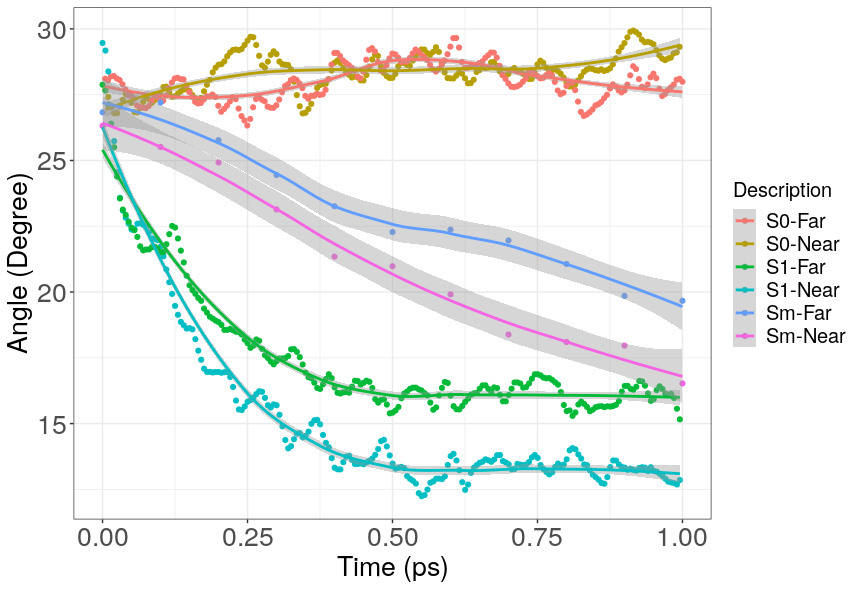
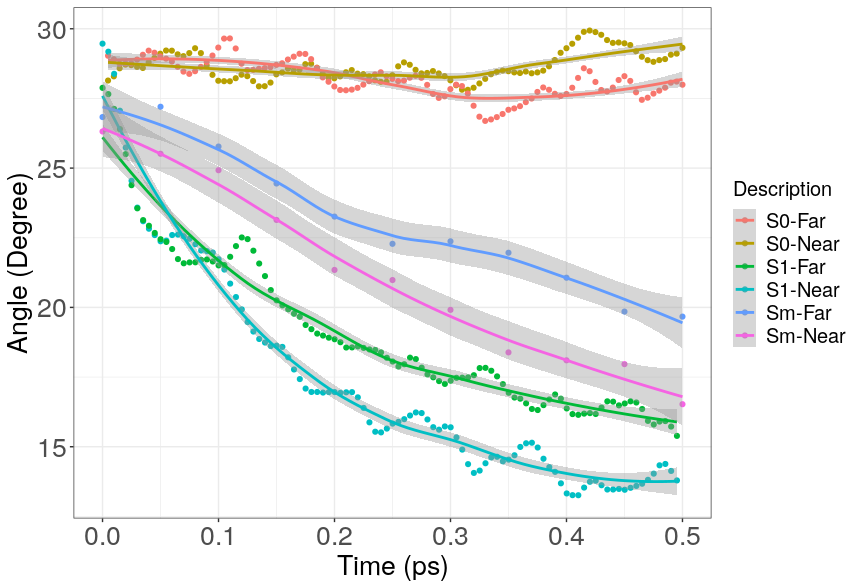
fixed x axist for dihedral

diff --git a/Paper2/figure_desc.html b/Paper2/figure_desc.html
@@ -3,7 +3,7 @@
 "http://www.w3.org/TR/xhtml1/DTD/xhtml1-strict.dtd">
 <html xmlns="http://www.w3.org/1999/xhtml" lang="en" xml:lang="en">
 <head>
-<!-- 2020-05-14 Thu 13:20 -->
+<!-- 2020-05-14 Thu 13:48 -->
 <meta http-equiv="Content-Type" content="text/html;charset=utf-8" />
 <meta name="viewport" content="width=device-width, initial-scale=1" />
 <title>Paper 2 Figure Description</title>
@@ -275,65 +275,65 @@ for the JavaScript code in this tag.
 <h2>Table of Contents</h2>
 <div id="text-table-of-contents">
 <ul>
-<li><a href="#org4a4528b">Populations </a>
+<li><a href="#org3c56d36">Populations </a>
 <ul>
-<li><a href="#org1031433">Vacuum</a>
+<li><a href="#org586f35a">Vacuum</a>
 <ul>
-<li><a href="#org21b9d76">PPV<sub>3</sub>-No-Trivial</a></li>
-<li><a href="#org4a9a792">PPV<sub>3</sub></a></li>
-<li><a href="#orgbf37ca9">PPV<sub>3</sub>-NO<sub>2</sub></a></li>
+<li><a href="#org2806e01">PPV<sub>3</sub>-No-Trivial</a></li>
+<li><a href="#org9e54011">PPV<sub>3</sub></a></li>
+<li><a href="#org1b7cded">PPV<sub>3</sub>-NO<sub>2</sub></a></li>
 </ul>
 </li>
-<li><a href="#orgd2d10b2">S1 vs Time</a>
+<li><a href="#orgacffc69">S1 vs Time</a>
 <ul>
-<li><a href="#org3b322d8">PPV<sub>3</sub></a></li>
-<li><a href="#org38fb74d">PPV<sub>3</sub>-NO<sub>2</sub></a></li>
+<li><a href="#org3a72c0e">PPV<sub>3</sub></a></li>
+<li><a href="#org55a16e3">PPV<sub>3</sub>-NO<sub>2</sub></a></li>
 </ul>
 </li>
 </ul>
 </li>
-<li><a href="#org6513a1f">Potential Energy Decay </a>
+<li><a href="#org512d402">Potential Energy Decay </a>
 <ul>
-<li><a href="#orgae8e40c">PPV<sub>3</sub></a></li>
-<li><a href="#org93f63c1">PPV<sub>3</sub>-NO<sub>2</sub></a></li>
+<li><a href="#orgad41089">PPV<sub>3</sub></a></li>
+<li><a href="#org6ffbe88">PPV<sub>3</sub>-NO<sub>2</sub></a></li>
 </ul>
 </li>
-<li><a href="#org9ca350a">Absorption &amp; Fluorescence </a>
+<li><a href="#orge17470f">Absorption &amp; Fluorescence </a>
 <ul>
-<li><a href="#org5d19454">PPV3 All Solvents</a></li>
-<li><a href="#org83c7684">PPV3-NO2 All Solvents</a></li>
+<li><a href="#org6cb126f">PPV3 All Solvents</a></li>
+<li><a href="#org6c2a2e8">PPV3-NO2 All Solvents</a></li>
 </ul>
 </li>
-<li><a href="#orge5925b3">BLA </a>
+<li><a href="#orgae53cbc">BLA </a>
 <ul>
-<li><a href="#org2c4c96c">PPV<sub>3</sub></a></li>
-<li><a href="#org58c352e">PPV<sub>3</sub>-NO<sub>2</sub></a></li>
+<li><a href="#org63b28ee">PPV<sub>3</sub></a></li>
+<li><a href="#orge0a37fa">PPV<sub>3</sub>-NO<sub>2</sub></a></li>
 </ul>
 </li>
-<li><a href="#orge11389d">Dihedral</a>
+<li><a href="#org23d40e9">Dihedral</a>
 <ul>
-<li><a href="#org33c4c51">PPV<sub>3</sub></a></li>
-<li><a href="#org4746445">PPV<sub>3</sub>-NO<sub>2</sub></a></li>
+<li><a href="#org02e040c">PPV<sub>3</sub></a></li>
+<li><a href="#org81207be">PPV<sub>3</sub>-NO<sub>2</sub></a></li>
 </ul>
 </li>
 </ul>
 </div>
 </div>
-<div id="outline-container-org4a4528b" class="outline-2">
-<h2 id="org4a4528b">Populations </h2>
-<div class="outline-text-2" id="text-org4a4528b">
+<div id="outline-container-org3c56d36" class="outline-2">
+<h2 id="org3c56d36">Populations </h2>
+<div class="outline-text-2" id="text-org3c56d36">
 </div>
-<div id="outline-container-org1031433" class="outline-3">
-<h3 id="org1031433">Vacuum</h3>
-<div class="outline-text-3" id="text-org1031433">
+<div id="outline-container-org586f35a" class="outline-3">
+<h3 id="org586f35a">Vacuum</h3>
+<div class="outline-text-3" id="text-org586f35a">
 <p>
 Shown below are the population trajectories for PPV<sub>3</sub> and PPV<sub>3</sub>-NO<sub>2</sub> in
 vacuum. States with very short lifespans were dropped for clarity.
 </p>
 </div>
-<div id="outline-container-org21b9d76" class="outline-4">
-<h4 id="org21b9d76">PPV<sub>3</sub>-No-Trivial</h4>
-<div class="outline-text-4" id="text-org21b9d76">
+<div id="outline-container-org2806e01" class="outline-4">
+<h4 id="org2806e01">PPV<sub>3</sub>-No-Trivial</h4>
+<div class="outline-text-4" id="text-org2806e01">
 <p>
 Using no trivial crossing and basic decoherence, the population plot looks very
 similar to that found in Tammie's thesis
@@ -344,9 +344,9 @@ similar to that found in Tammie's thesis
 </p>
 </div>
 </div>
-<div id="outline-container-org4a9a792" class="outline-4">
-<h4 id="org4a9a792">PPV<sub>3</sub></h4>
-<div class="outline-text-4" id="text-org4a9a792">
+<div id="outline-container-org9e54011" class="outline-4">
+<h4 id="org9e54011">PPV<sub>3</sub></h4>
+<div class="outline-text-4" id="text-org9e54011">
 
 <div class="figure">
 <p><img src="./Images/population_fit_tabulation/ppv3_pop_vacuum.png" alt="ppv3_pop_vacuum.png" />
@@ -355,9 +355,9 @@ similar to that found in Tammie's thesis
 </div>
 </div>
 </div>
-<div id="outline-container-orgbf37ca9" class="outline-4">
-<h4 id="orgbf37ca9">PPV<sub>3</sub>-NO<sub>2</sub></h4>
-<div class="outline-text-4" id="text-orgbf37ca9">
+<div id="outline-container-org1b7cded" class="outline-4">
+<h4 id="org1b7cded">PPV<sub>3</sub>-NO<sub>2</sub></h4>
+<div class="outline-text-4" id="text-org1b7cded">
 
 <div class="figure">
 <p><img src="./Images/population_fit_tabulation/ppv3no2_pop_vacuum.png" alt="ppv3no2_pop_vacuum.png" />
@@ -367,9 +367,9 @@ similar to that found in Tammie's thesis
 </div>
 </div>
 </div>
-<div id="outline-container-orgd2d10b2" class="outline-3">
-<h3 id="orgd2d10b2">S1 vs Time</h3>
-<div class="outline-text-3" id="text-orgd2d10b2">
+<div id="outline-container-orgacffc69" class="outline-3">
+<h3 id="orgacffc69">S1 vs Time</h3>
+<div class="outline-text-3" id="text-orgacffc69">
 <p>
 To the following graphs we fitted a function
 \(\frac{Ae^{t/\tau}}{A+e^{t/\tau}} - \frac{A}{1+A}\)
@@ -377,9 +377,9 @@ to produce the accompanying tables, where \(\tau\) is the time constant, and A
 normalizing factor restricting the S<sub>1</sub> population from becoming greater than 1.
 </p>
 </div>
-<div id="outline-container-org3b322d8" class="outline-4">
-<h4 id="org3b322d8">PPV<sub>3</sub></h4>
-<div class="outline-text-4" id="text-org3b322d8">
+<div id="outline-container-org3a72c0e" class="outline-4">
+<h4 id="org3a72c0e">PPV<sub>3</sub></h4>
+<div class="outline-text-4" id="text-org3a72c0e">
 
 <div class="figure">
 <p><img src="./Images/population_fit_tabulation/ppv3_s1_pop_v_solvent.png" alt="ppv3_s1_pop_v_solvent.png" />
@@ -424,9 +424,9 @@ normalizing factor restricting the S<sub>1</sub> population from becoming greate
 </table>
 </div>
 </div>
-<div id="outline-container-org38fb74d" class="outline-4">
-<h4 id="org38fb74d">PPV<sub>3</sub>-NO<sub>2</sub></h4>
-<div class="outline-text-4" id="text-org38fb74d">
+<div id="outline-container-org55a16e3" class="outline-4">
+<h4 id="org55a16e3">PPV<sub>3</sub>-NO<sub>2</sub></h4>
+<div class="outline-text-4" id="text-org55a16e3">
 
 <div class="figure">
 <p><img src="./Images/population_fit_tabulation/ppv3no2_s1_pop_v_solvent.png" alt="ppv3no2_s1_pop_v_solvent.png" />
@@ -473,13 +473,13 @@ normalizing factor restricting the S<sub>1</sub> population from becoming greate
 </div>
 </div>
 </div>
-<div id="outline-container-org6513a1f" class="outline-2">
-<h2 id="org6513a1f">Potential Energy Decay </h2>
-<div class="outline-text-2" id="text-org6513a1f">
+<div id="outline-container-org512d402" class="outline-2">
+<h2 id="org512d402">Potential Energy Decay </h2>
+<div class="outline-text-2" id="text-org512d402">
 </div>
-<div id="outline-container-orgae8e40c" class="outline-3">
-<h3 id="orgae8e40c">PPV<sub>3</sub></h3>
-<div class="outline-text-3" id="text-orgae8e40c">
+<div id="outline-container-orgad41089" class="outline-3">
+<h3 id="orgad41089">PPV<sub>3</sub></h3>
+<div class="outline-text-3" id="text-orgad41089">
 
 <div class="figure">
 <p><img src="./Images/potential_energies/ppv3.png" alt="ppv3.png" />
@@ -488,9 +488,9 @@ normalizing factor restricting the S<sub>1</sub> population from becoming greate
 </div>
 </div>
 </div>
-<div id="outline-container-org93f63c1" class="outline-3">
-<h3 id="org93f63c1">PPV<sub>3</sub>-NO<sub>2</sub></h3>
-<div class="outline-text-3" id="text-org93f63c1">
+<div id="outline-container-org6ffbe88" class="outline-3">
+<h3 id="org6ffbe88">PPV<sub>3</sub>-NO<sub>2</sub></h3>
+<div class="outline-text-3" id="text-org6ffbe88">
 
 <div class="figure">
 <p><img src="./Images/potential_energies/ppv3-no2.png" alt="ppv3-no2.png" />
@@ -500,24 +500,24 @@ normalizing factor restricting the S<sub>1</sub> population from becoming greate
 </div>
 </div>
 </div>
-<div id="outline-container-org9ca350a" class="outline-2">
-<h2 id="org9ca350a">Absorption &amp; Fluorescence </h2>
-<div class="outline-text-2" id="text-org9ca350a">
+<div id="outline-container-orge17470f" class="outline-2">
+<h2 id="orge17470f">Absorption &amp; Fluorescence </h2>
+<div class="outline-text-2" id="text-orge17470f">
 </div>
-<div id="outline-container-org5d19454" class="outline-3">
-<h3 id="org5d19454">PPV3 All Solvents</h3>
+<div id="outline-container-org6cb126f" class="outline-3">
+<h3 id="org6cb126f">PPV3 All Solvents</h3>
 </div>
-<div id="outline-container-org83c7684" class="outline-3">
-<h3 id="org83c7684">PPV3-NO2 All Solvents</h3>
+<div id="outline-container-org6c2a2e8" class="outline-3">
+<h3 id="org6c2a2e8">PPV3-NO2 All Solvents</h3>
 </div>
 </div>
-<div id="outline-container-orge5925b3" class="outline-2">
-<h2 id="orge5925b3">BLA </h2>
-<div class="outline-text-2" id="text-orge5925b3">
+<div id="outline-container-orgae53cbc" class="outline-2">
+<h2 id="orgae53cbc">BLA </h2>
+<div class="outline-text-2" id="text-orgae53cbc">
 </div>
-<div id="outline-container-org2c4c96c" class="outline-3">
-<h3 id="org2c4c96c">PPV<sub>3</sub></h3>
-<div class="outline-text-3" id="text-org2c4c96c">
+<div id="outline-container-org63b28ee" class="outline-3">
+<h3 id="org63b28ee">PPV<sub>3</sub></h3>
+<div class="outline-text-3" id="text-org63b28ee">
 
 <div class="figure">
 <p><img src="./Images/bla/ppv3.png" alt="ppv3.png" />
@@ -526,9 +526,9 @@ normalizing factor restricting the S<sub>1</sub> population from becoming greate
 </div>
 </div>
 </div>
-<div id="outline-container-org58c352e" class="outline-3">
-<h3 id="org58c352e">PPV<sub>3</sub>-NO<sub>2</sub></h3>
-<div class="outline-text-3" id="text-org58c352e">
+<div id="outline-container-orge0a37fa" class="outline-3">
+<h3 id="orge0a37fa">PPV<sub>3</sub>-NO<sub>2</sub></h3>
+<div class="outline-text-3" id="text-orge0a37fa">
 
 <div class="figure">
 <p><img src="./Images/bla/ppv3-no2.png" alt="ppv3-no2.png" />
@@ -537,16 +537,16 @@ normalizing factor restricting the S<sub>1</sub> population from becoming greate
 </div>
 </div>
 </div>
-<div id="outline-container-orge11389d" class="outline-2">
-<h2 id="orge11389d">Dihedral</h2>
-<div class="outline-text-2" id="text-orge11389d">
+<div id="outline-container-org23d40e9" class="outline-2">
+<h2 id="org23d40e9">Dihedral</h2>
+<div class="outline-text-2" id="text-org23d40e9">
 </div>
-<div id="outline-container-org33c4c51" class="outline-3">
-<h3 id="org33c4c51">PPV<sub>3</sub></h3>
+<div id="outline-container-org02e040c" class="outline-3">
+<h3 id="org02e040c">PPV<sub>3</sub></h3>
 </div>
-<div id="outline-container-org4746445" class="outline-3">
-<h3 id="org4746445">PPV<sub>3</sub>-NO<sub>2</sub></h3>
-<div class="outline-text-3" id="text-org4746445">
+<div id="outline-container-org81207be" class="outline-3">
+<h3 id="org81207be">PPV<sub>3</sub>-NO<sub>2</sub></h3>
+<div class="outline-text-3" id="text-org81207be">
 
 <div class="figure">
 <p><img src="./Images/dihedral/ppv3-no2-vac.png" alt="ppv3-no2-vac.png" />
@@ -557,7 +557,7 @@ normalizing factor restricting the S<sub>1</sub> population from becoming greate
 <div class="figure">
 <p><img src="./Images/dihedral/ppv3-no2-sm.png" alt="ppv3-no2-sm.png" />
 </p>
-<p><span class="figure-number">Figure 10: </span>Torsional angles averaged over the ensemble of trajectories for S<sub>m</sub> for PPV<sub>3</sub>-NO<sub>2</sub> in vacuum, a classical methanol box, and a classical methanol box with the closest 5 methanols included in the QM calculation.</p>
+<p><span class="figure-number">Figure 10: </span>Torsional angles averaged over the ensemble of trajectories for S<sub>m</sub> for PPV<sub>3</sub>-NO<sub>2</sub> in vacuum, a classical methanol box, and a classical methanol box with the closest 5 methanol molecules included in the QM calculation.</p>
 </div>
 </div>
 </div>
@@ -565,7 +565,7 @@ normalizing factor restricting the S<sub>1</sub> population from becoming greate
 </div>
 <div id="postamble" class="status">
 <p class="author">Author: dustin</p>
-<p class="date">Created: 2020-05-14 Thu 13:20</p>
+<p class="date">Created: 2020-05-14 Thu 13:48</p>
 <p class="validation"><a href="http://validator.w3.org/check?uri=referer">Validate</a></p>
 </div>
 </body>
